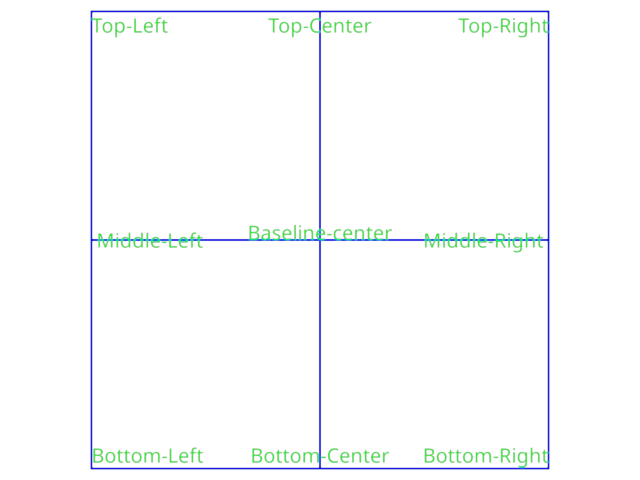
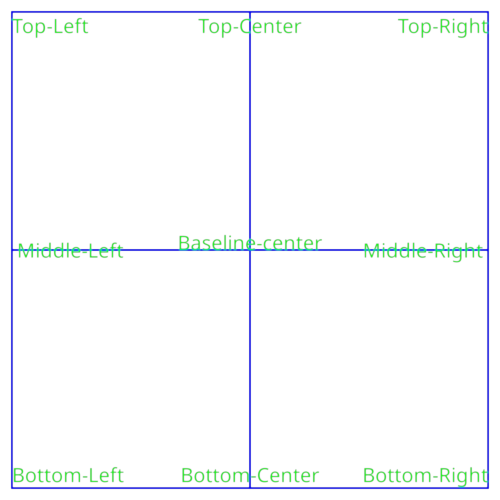
Upgrade to wgpu-py 0.8.3 (#424)
* asyncio fixture no longer needed with new wgpu-py

* update reference screenshots using non-standard offscreen canvas size

* fix an imageio deprecation warning, and a warning about an unlit scene

* fix utf-8 error in test example discovery

* fix test

* dont run display test if wgpu lib not available

* fix test that depended on posix paths

* remove comment that is not necessary anymore

* ensure force offscreen is used

* double check asyncio on CI

* try to revert

Changed region(s): [[0.0, 0.0, 0.99, 1.0]]

diff --git a/tests/utils/test_text_fontfinder.py b/tests/utils/test_text_fontfinder.py
@@ -3,6 +3,7 @@ import json
 import time
 import shutil
 import tempfile
+from pathlib import Path
 
 from pytest import raises
 
@@ -39,89 +40,93 @@ def test_font_file():
     assert hash(ff2) != hash(ff3)
 
 
-def test_find_fonts_paths():
-
+def test_find_fonts_paths(request):
     # Prepare a clean temp dir
-    tmpdir = os.path.join(tempfile.gettempdir(), "pygfx_test")
+    tmpdir = Path(tempfile.gettempdir()) / "pygfx_test"
     shutil.rmtree(tmpdir, ignore_errors=True)
-    os.mkdir(tmpdir)
+    request.addfinalizer(lambda: shutil.rmtree(tmpdir, ignore_errors=True))
 
     # Put a directory structure with stub files in place
+    tmpdir.mkdir()
     files = [
-        "/aa.ttf",
-        "/bb.ttf",
-        "/cc.otf",
-        "/dd.png",
-        "/sub/ee.ttf",
-        "/sub/ff.ttf",
-        "/sub/gg.otf",
-        "/sub/hh.png",
-        "/sub/deeper/ii.ttf",
-        "/sub/deeper/jj.ttf",
-        "/sub/deeper/kk.otf",
-        "/sub/deeper/ll.png",
+        Path("aa.ttf"),
+        Path("bb.ttf"),
+        Path("cc.otf"),
+        Path("dd.png"),
+        Path("sub") / "ee.ttf",
+        Path("sub") / "ff.ttf",
+        Path("sub") / "gg.otf",
+        Path("sub") / "hh.png",
+        Path("sub") / "deeper" / "ii.ttf",
+        Path("sub") / "deeper" / "jj.ttf",
+        Path("sub") / "deeper" / "kk.otf",
+        Path("sub") / "deeper" / "ll.png",
     ]
     for fname in files:
-        filename = tmpdir + fname
-        os.makedirs(os.path.dirname(filename), exist_ok=True)
-        with open(filename, "wb"):
-            pass
+        filename = tmpdir / fname
+        filename.parent.mkdir(exist_ok=True)
+        filename.touch()
 
-    try:
-        # Test non-recursive
-        dirs, files = _fontfinder.find_fonts_paths(tmpdir, False)
-        assert isinstance(dirs, set)
-        assert isinstance(files, set)
-        assert dirs == {tmpdir}
-        files = set(p[len(tmpdir) + 1 : -4] for p in files)
-        assert files == {"aa", "bb", "cc"}
+    # Test non-recursive
+    dirs, files = _fontfinder.find_fonts_paths(tmpdir, False)
+    assert isinstance(dirs, set)
+    assert isinstance(files, set)
+    assert dirs == {tmpdir}
+    files = set(Path(p).stem for p in files)
+    assert files == {"aa", "bb", "cc"}
 
-        # Again but deeper
-        dirs, files = _fontfinder.find_fonts_paths(tmpdir + "/sub", False)
-        assert dirs == {tmpdir + "/sub"}
-        files = set(p[len(tmpdir) + 1 : -4] for p in files)
-        assert files == {"sub/ee", "sub/ff", "sub/gg"}
+    # Again but deeper
+    root = tmpdir / "sub"
+    dirs, files = _fontfinder.find_fonts_paths(root, False)
+    assert dirs == {root}
+    files = set(
+        str(Path(p).relative_to(tmpdir).with_suffix("").as_posix()) for p in files
+    )
+    assert files == {"sub/ee", "sub/ff", "sub/gg"}
 
-        # Recursive
-        dirs, files = _fontfinder.find_fonts_paths(tmpdir, True)
-        assert isinstance(dirs, set)
-        assert isinstance(files, set)
-        assert dirs == {tmpdir, tmpdir + "/sub", tmpdir + "/sub/deeper"}
-        files = set(p[len(tmpdir) + 1 : -4] for p in files)
-        assert files == {
-            "aa",
-            "bb",
-            "cc",
-            "sub/ee",
-            "sub/ff",
-            "sub/gg",
-            "sub/deeper/ii",
-            "sub/deeper/jj",
-            "sub/deeper/kk",
-        }
+    # Recursive
+    dirs, files = _fontfinder.find_fonts_paths(tmpdir, True)
+    assert isinstance(dirs, set)
+    assert isinstance(files, set)
+    dirs = set(Path(p) for p in dirs)
+    assert dirs == {tmpdir, tmpdir / "sub", tmpdir / "sub" / "deeper"}
+    files = set(
+        str(Path(p).relative_to(tmpdir).with_suffix("").as_posix()) for p in files
+    )
+    assert files == {
+        "aa",
+        "bb",
+        "cc",
+        "sub/ee",
+        "sub/ff",
+        "sub/gg",
+        "sub/deeper/ii",
+        "sub/deeper/jj",
+        "sub/deeper/kk",
+    }
 
-        # Recursive
-        dirs, files = _fontfinder.find_fonts_paths(tmpdir + "/sub", True)
-        assert dirs == {tmpdir + "/sub", tmpdir + "/sub/deeper"}
-        files = set(p[len(tmpdir) + 1 : -4] for p in files)
-        assert files == {
-            "sub/ee",
-            "sub/ff",
-            "sub/gg",
-            "sub/deeper/ii",
-            "sub/deeper/jj",
-            "sub/deeper/kk",
-        }
+    # Recursive
+    root = tmpdir / "sub"
+    dirs, files = _fontfinder.find_fonts_paths(root, True)
+    dirs = set(Path(p) for p in dirs)
+    assert dirs == {root, root / "deeper"}
+    files = set(
+        str(Path(p).relative_to(tmpdir).with_suffix("").as_posix()) for p in files
+    )
+    assert files == {
+        "sub/ee",
+        "sub/ff",
+        "sub/gg",
+        "sub/deeper/ii",
+        "sub/deeper/jj",
+        "sub/deeper/kk",
+    }
 
-        # Not a directory
-        with raises(OSError):
-            _fontfinder.find_fonts_paths(tmpdir + "/nope", False)
-        with raises(OSError):
-            _fontfinder.find_fonts_paths(tmpdir + "/nope", True)
-
-    finally:
-        # Clean up
-        shutil.rmtree(tmpdir, ignore_errors=True)
+    # Not a directory
+    with raises(OSError):
+        _fontfinder.find_fonts_paths(tmpdir / "nope", False)
+    with raises(OSError):
+        _fontfinder.find_fonts_paths(tmpdir / "nope", True)
 
 
 class StubFace:

diff --git a/examples/feature_demo/dynamic_env_map.py b/examples/feature_demo/dynamic_env_map.py
@@ -11,7 +11,7 @@ The environment map is automatically be updated from the scene by a CubeCamera.
 import time
 import math
 
-import imageio
+import imageio.v3 as iio
 from wgpu.gui.auto import WgpuCanvas, run
 import pygfx as gfx
 from pygfx.utils.cube_camera import CubeCamera
@@ -45,7 +45,7 @@ controller = gfx.OrbitController(camera.position.clone())
 controller.add_default_event_handlers(renderer, camera)
 
 # Read cube image and turn it into a 3D image (a 4d array)
-env_img = imageio.imread("imageio:meadow_cube.jpg")
+env_img = iio.imread("imageio:meadow_cube.jpg")
 cube_size = env_img.shape[1]
 env_img.shape = 6, cube_size, cube_size, env_img.shape[-1]
 

diff --git a/tests/utils/test_display.py b/tests/utils/test_display.py
@@ -4,6 +4,12 @@ from wgpu.gui.offscreen import WgpuCanvas
 
 import pygfx as gfx
 
+from ..testutils import can_use_wgpu_lib
+
+
+if not can_use_wgpu_lib:
+    pytest.skip("Skipping tests that need the wgpu lib", allow_module_level=True)
+
 
 def test_repeated_show():
     wgpu_version = tuple(int(x) for x in wgpu.__version__.split("."))
@@ -20,6 +26,8 @@ def test_repeated_show():
     disp = gfx.Display(canvas=WgpuCanvas())
 
     disp.show(cube)
+
+    disp.canvas.close()
 
     with pytest.raises(RuntimeError):
         # repeated show should raise - currently doesn't because offscreen

diff --git a/examples/tests/testutils.py b/examples/tests/testutils.py
@@ -45,7 +45,7 @@ is_lavapipe = wgpu_backend_endswith("CPU Vulkan")
 def find_examples(query=None, negative_query=None, return_stems=False):
     result = []
     for example_path in chain(*(examples_dir.glob(x) for x in example_globs)):
-        example_code = example_path.read_text()
+        example_code = example_path.read_text(encoding="utf-8")
         query_match = query is None or query in example_code
         negative_query_match = (
             negative_query is None or negative_query not in example_code

diff --git a/examples/feature_demo/geometry_polyhedron_subdivisions.py b/examples/feature_demo/geometry_polyhedron_subdivisions.py
@@ -11,7 +11,7 @@ Example showing subdivided polyhedrons.
 import pygfx as gfx
 
 
-scene = gfx.Scene()
+scene = gfx.Group()
 
 material = gfx.MeshBasicMaterial(wireframe=True, side="FRONT")
 geometries = [gfx.tetrahedron_geometry(subdivisions=i) for i in range(4)]

diff --git a/tests/renderers/test_environment.py b/tests/renderers/test_environment.py
@@ -4,7 +4,7 @@ import wgpu
 import pygfx as gfx
 from pygfx.renderers.wgpu._environment import environment_manager
 
-from testutils import can_use_wgpu_lib
+from ..testutils import can_use_wgpu_lib
 import pytest
 
 

diff --git a/tests/linalg/test_matrix4.py b/tests/linalg/test_matrix4.py
@@ -9,7 +9,7 @@ from pygfx.linalg import (
     Quaternion,
 )
 
-from utils import matrix_equals, euler_equals  # this import works: WHY?
+from .utils import matrix_equals, euler_equals
 
 
 eps = 0.0001

diff --git a/setup.py b/setup.py
@@ -12,7 +12,7 @@ with open(f"{NAME}/__init__.py") as fh:
 
 runtime_deps = [
     "numpy",
-    "wgpu>=0.8.0,<0.9.0",
+    "wgpu>=0.8.3,<0.9.0",
     "freetype-py",
     "uharfbuzz",
     "Jinja2",

diff --git a/tests/linalg/test_euler.py b/tests/linalg/test_euler.py
@@ -5,7 +5,7 @@ from pygfx.linalg import (
     Quaternion,
 )
 
-from utils import matrix_equals, euler_equals, quat_equals
+from .utils import matrix_equals, euler_equals, quat_equals
 
 
 x = 2

diff --git a/tests/renderers/test_reactivity.py b/tests/renderers/test_reactivity.py
@@ -4,7 +4,7 @@ import numpy as np
 import wgpu
 import pygfx as gfx
 
-from testutils import can_use_wgpu_lib
+from ..testutils import can_use_wgpu_lib
 import pytest
 
 
